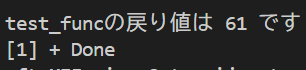
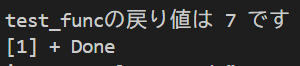
適当

diff --git a/13/4.c b/13/4.c
@@ -1,0 +1,67 @@
+#include <stdio.h>
+
+int have = 1000;
+
+int import_account(int nyuukinn) {
+    static int count = 0; 
+
+    if (nyuukinn < 1 || nyuukinn > 10000) {
+        printf("エラー: 1以上10000以下の数値を入力してください\n");
+        return have; 
+    }
+
+    have += nyuukinn;
+    count++;
+    printf("入金完了（取引#%d）残高: %d\n", count, have);
+    return have;
+}
+
+int export_account(int shukkin) {
+    static int count = 0;
+
+    if (shukkin < 1 || shukkin > 10000) {
+        printf("エラー: 1以上10000以下の数値を入力してください\n");
+        return have;
+    }
+
+    if (have < shukkin) {
+        printf("エラー: 残高不足\n");
+        return have;
+    }
+
+    have -= shukkin;
+    count++;
+    printf("出金完了（取引#%d）残高: %d\n", count, have);
+    return have;
+}
+
+int main() {
+    int money; 
+
+    printf("=== 銀行口座シミュレーション ===\n");
+    printf("初期残高: %d", have); 
+    
+    printf("--- 入金 ---\n");
+    
+    printf("入金額を入力してください: ");
+    scanf("%d", &money);
+    import_account(money);
+
+    printf("入金額を入力してください: ");
+    scanf("%d", &money);
+    import_account(money);
+
+    printf("--- 出金 ---\n");
+
+    printf("出金額を入力してください: "); 
+    scanf("%d", &money);
+    export_account(money);
+
+    printf("出金額を入力してください: ");
+    scanf("%d", &money);
+    export_account(money);
+
+    printf("最終残高: %d\n", have);
+
+    return 0;
+}

diff --git a/13/2.c b/13/2.c
@@ -1,0 +1,38 @@
+#include<stdio.h>
+
+int g_score = 0;
+
+void add_point(int point){
+	g_score += point;
+}
+int main(){
+	int num;
+	printf("1つ目の値を入力してください: ");
+	scanf("%d",&num);
+	if(num<1 || num>1000){
+		printf("エラー: 1以上1000以下の整数を入力してください\n");
+		return 1;
+	}
+	add_point(num);
+	printf("累積合計: %d\n",g_score);
+	
+	printf("2つ目の値を入力してください: ");
+	scanf("%d",&num);
+	if(num<1 || num>1000){
+		printf("エラー: 1以上1000以下の整数を入力してください\n");
+		return 1;
+	}
+	add_point(num);
+	printf("累積合計: %d\n",g_score);
+
+	printf("3つ目の値を入力してください: ");
+	scanf("%d",&num);
+	if(num<1 || num>1000){
+		printf("エラー: 1以上1000以下の整数を入力してください\n");
+		return 1;
+	}
+	add_point(num);
+	printf("累積合計: %d\n",g_score);
+
+	printf("最終合計: %d\n",g_score);
+}

diff --git a/13/1.c b/13/1.c
@@ -1,0 +1,27 @@
+#include<stdio.h>
+
+
+int f(int num){
+    num--;
+    for(int i=0;i<3;i++){
+        num++;
+        printf("カウント: %d\n",num);
+    }
+    return num;
+}
+int main(){
+    int n;
+    printf("カウント開始値を入力してください: ");
+    scanf("%d",&n);
+    if(n<0 || n>100){
+        printf("0以上100以下の整数を入力してください。\n");
+        return 1;
+    }
+    printf("--- 1回目の呼び出し ---\n");
+    int result = f(n);
+    printf("結果: %d \n",result);
+        printf("--- 2回目の呼び出し ---\n");
+    int result2 = f(n);
+    printf("結果: %d \n",result2);
+    return 0;
+}

diff --git a/exam/1.c b/exam/1.c
@@ -1,0 +1,22 @@
+#include <stdio.h>
+#include "GraphicsLib.h"
+#define BALL_SIZE 10
+
+int main()
+{
+
+    InitGraphicsWindow();
+    // 初期準備-------------------------
+
+    //---------------------------------------
+    while (UpdateDisplay()) {
+	// 毎回更新-----------------------
+	
+	// -------------------------------
+        CrossPlatformSleep(10);
+    }
+
+    printf("プログラムを終了します\n");
+    CloseGraphicsWindow();
+    return 0;
+}

diff --git a/13/3.c b/13/3.c
@@ -1,0 +1,18 @@
+#include<stdio.h>
+
+int get_id(){
+	static int id = 0;
+	id++;
+	return id;
+}
+int main(){
+	int n;
+	printf("呼び出し回数を入力してください: ");
+	scanf("%d", &n);
+	for(int i=0;i < n;i++){
+		printf("呼び出し回数: %d\n",get_id());
+	}
+	printf("合計呼び出し回数: %d\n", get_id()-1);
+	return 0;
+
+}

diff --git a/13/ex13-1.c b/13/ex13-1.c
@@ -4,8 +4,9 @@ int test_func(int data[], int data_size){
     int i,sum = 0;
     for(i = 0; i < data_size; i++)
         sum += data[i];
+        
 
-    return sum;
+    return sum/data_size;
 }
 
 int main(){
